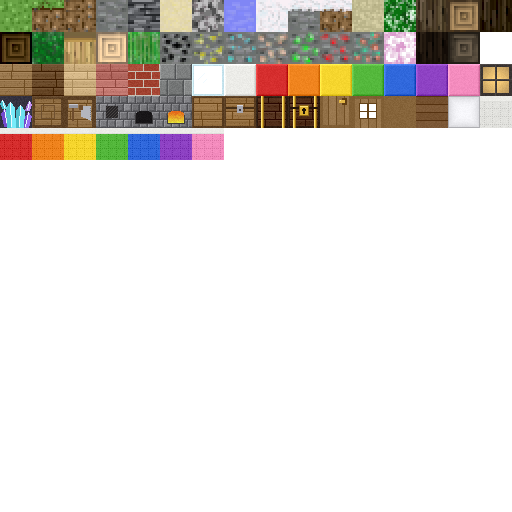
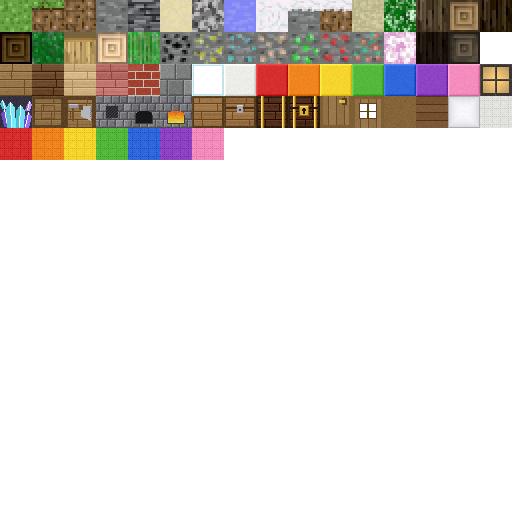
feat(beds): draw a bed as a low frame with a blanket and a pillow

Changed region(s): [[0.0, 0.25, 0.4375, 0.2812]]

diff --git a/src/chunk/chunk_mesh.cpp b/src/chunk/chunk_mesh.cpp
@@ -298,15 +298,18 @@ void addQuad(MeshBuffers& buffers,
   }
 }
 
-// A door: its panel, a thin box inside the cell, all six faces, lit by the
-// cell itself (light gets into a door's cell) and without AO. Corners go in
-// the order addQuad uses for each face, so the winding matches.
-void addDoor(MeshBuffers &buffers, int x, int y, int z, BlockType type,
-             int16_t chunkWorldX, int16_t chunkWorldZ, uint8_t skyLight, uint8_t blockLight) {
-  const DoorBox box = doorPanel(type);
-  const glm::vec3 lo = glm::vec3(x, y, z) + box.lo, hi = glm::vec3(x, y, z) + box.hi;
-  const BlockTexture &tex = block_data.at(type);
-  const uint8_t cutoutBits = static_cast<uint8_t>((cutoutClass(type) & 0x3) << 6);
+// The tiles a box wears on each face.
+struct BoxTiles {
+  glm::ivec2 top, bottom, front, back, right, left;
+};
+
+// A box inside a cell (doors, beds): all six faces, lit by the cell itself
+// (light gets into the cell, since these don't fill it) and without AO.
+// Corners go in the order addQuad uses for each face, so the winding matches.
+void addBox(MeshBuffers &buffers, glm::vec3 lo, glm::vec3 hi, const BoxTiles &tiles,
+            uint8_t cutout, int16_t chunkWorldX, int16_t chunkWorldZ, uint8_t skyLight,
+            uint8_t blockLight) {
+  const uint8_t cutoutBits = static_cast<uint8_t>((cutout & 0x3) << 6);
   const uint8_t light = static_cast<uint8_t>(cutoutBits | ((skyLight & 0xF) << 2) | 3);
 
   auto face = [&](Face f, glm::ivec2 tile, const std::array<glm::vec3, 4> &corners) {
@@ -324,21 +327,73 @@ void addDoor(MeshBuffers &buffers, int x, int y, int z, BlockType type,
     for (unsigned int k : order[sideways]) buffers.indices.push_back(start + k);
   };
 
-  // The two big faces wear the half's tile; the thin edges, the edge tile.
+  face(Face::Top, tiles.top,
+       {{{lo.x, hi.y, lo.z}, {hi.x, hi.y, lo.z}, {hi.x, hi.y, hi.z}, {lo.x, hi.y, hi.z}}});
+  face(Face::Bottom, tiles.bottom,
+       {{{lo.x, lo.y, hi.z}, {hi.x, lo.y, hi.z}, {hi.x, lo.y, lo.z}, {lo.x, lo.y, lo.z}}});
+  face(Face::Front, tiles.front,
+       {{{lo.x, hi.y, hi.z}, {hi.x, hi.y, hi.z}, {hi.x, lo.y, hi.z}, {lo.x, lo.y, hi.z}}});
+  face(Face::Back, tiles.back,
+       {{{hi.x, hi.y, lo.z}, {lo.x, hi.y, lo.z}, {lo.x, lo.y, lo.z}, {hi.x, lo.y, lo.z}}});
+  face(Face::Right, tiles.right,
+       {{{hi.x, hi.y, lo.z}, {hi.x, hi.y, hi.z}, {hi.x, lo.y, hi.z}, {hi.x, lo.y, lo.z}}});
+  face(Face::Left, tiles.left,
+       {{{lo.x, hi.y, hi.z}, {lo.x, hi.y, lo.z}, {lo.x, lo.y, lo.z}, {lo.x, lo.y, hi.z}}});
+}
+
+// A door: its panel, a thin box. The two big faces wear the half's tile; the
+// thin edges, the edge tile.
+void addDoor(MeshBuffers &buffers, int x, int y, int z, BlockType type,
+             int16_t chunkWorldX, int16_t chunkWorldZ, uint8_t skyLight, uint8_t blockLight) {
+  const DoorBox box = doorPanel(type);
+  const glm::vec3 lo = glm::vec3(x, y, z) + box.lo, hi = glm::vec3(x, y, z) + box.hi;
+  const BlockTexture &tex = block_data.at(type);
   const glm::vec3 size = hi - lo;
   auto tileFor = [&](float w) { return w > 0.5f ? tex.side : tex.top; };
-  face(Face::Top, tex.top,
-       {{{lo.x, hi.y, lo.z}, {hi.x, hi.y, lo.z}, {hi.x, hi.y, hi.z}, {lo.x, hi.y, hi.z}}});
-  face(Face::Bottom, tex.bottom,
-       {{{lo.x, lo.y, hi.z}, {hi.x, lo.y, hi.z}, {hi.x, lo.y, lo.z}, {lo.x, lo.y, lo.z}}});
-  face(Face::Front, tileFor(size.x),
-       {{{lo.x, hi.y, hi.z}, {hi.x, hi.y, hi.z}, {hi.x, lo.y, hi.z}, {lo.x, lo.y, hi.z}}});
-  face(Face::Back, tileFor(size.x),
-       {{{hi.x, hi.y, lo.z}, {lo.x, hi.y, lo.z}, {lo.x, lo.y, lo.z}, {hi.x, lo.y, lo.z}}});
-  face(Face::Right, tileFor(size.z),
-       {{{hi.x, hi.y, lo.z}, {hi.x, hi.y, hi.z}, {hi.x, lo.y, hi.z}, {hi.x, lo.y, lo.z}}});
-  face(Face::Left, tileFor(size.z),
-       {{{lo.x, hi.y, hi.z}, {lo.x, hi.y, lo.z}, {lo.x, lo.y, lo.z}, {lo.x, lo.y, hi.z}}});
+  const glm::ivec2 xs = tileFor(size.x), zs = tileFor(size.z);
+  addBox(buffers, lo, hi, {tex.top, tex.bottom, xs, xs, zs, zs}, cutoutClass(type),
+         chunkWorldX, chunkWorldZ, skyLight, blockLight);
+}
+
+// A bed half: a wooden frame with a blanket on it, and at the head a pillow
+// at the far end. The boxes are laid out for a bed facing north (head at
+// -Z) and turned to the bed's facing.
+void addBed(MeshBuffers &buffers, int x, int y, int z, BlockType type,
+            int16_t chunkWorldX, int16_t chunkWorldZ, uint8_t skyLight, uint8_t blockLight) {
+  constexpr float s = 1.0f / 16.0f;
+  constexpr float frame_top = 5 * s;
+  const glm::ivec2 frame = kBedFrameTile, pillow = kBedPillowTile;
+  const glm::ivec2 blanket = bedBlanketTile(bedColour(type));
+  const DoorFacing facing = bedFacing(type);
+
+  // (x, z) in a north-facing cell to the same point in this bed's cell.
+  auto turn = [&](float u, float v) -> glm::vec2 {
+    switch (facing) {
+      case DoorFacing::North: return {u, v};
+      case DoorFacing::South: return {1 - u, 1 - v};
+      case DoorFacing::East:  return {1 - v, u};
+      case DoorFacing::West:
+      default:                return {v, 1 - u};
+    }
+  };
+  auto box = [&](glm::vec3 lo, glm::vec3 hi, const BoxTiles &tiles) {
+    glm::vec2 a = turn(lo.x, lo.z), b = turn(hi.x, hi.z);
+    glm::vec3 cell(x, y, z);
+    addBox(buffers, cell + glm::vec3(std::min(a.x, b.x), lo.y, std::min(a.y, b.y)),
+           cell + glm::vec3(std::max(a.x, b.x), hi.y, std::max(a.y, b.y)), tiles, kCutoutNone,
+           chunkWorldX, chunkWorldZ, skyLight, blockLight);
+  };
+  const BoxTiles wood{frame, frame, frame, frame, frame, frame};
+  const BoxTiles cover{blanket, frame, blanket, blanket, blanket, blanket};
+  const BoxTiles plump{pillow, pillow, pillow, pillow, pillow, pillow};
+
+  box({0, 0, 0}, {1, frame_top, 1}, wood);
+  if (!bedHead(type)) {
+    box({0, frame_top, 0}, {1, kBedHeight, 1}, cover);
+  } else {
+    box({0, frame_top, 8 * s}, {1, kBedHeight, 1}, cover);
+    box({s, frame_top, s}, {1 - s, kBedHeight, 8 * s}, plump);
+  }
 }
 
 } // namespace
@@ -462,7 +517,7 @@ void ChunkMesh::generateCPU(World *world, const Chunk &chunk,
         if (mask[x][y]) continue;
 
         BlockType type = chunk.at(x, y, z);
-        if (type == BlockType::AIR || isDoor(type)) continue; // doors: addDoor
+        if (type == BlockType::AIR || isDoor(type) || isBed(type)) continue; // addDoor, addBed
 
         if (sideShows(type, x, y, z + 1)) {
           const auto &tex = block_data.at(type);
@@ -517,7 +572,7 @@ void ChunkMesh::generateCPU(World *world, const Chunk &chunk,
         if (mask[x][y]) continue;
 
         BlockType type = chunk.at(x, y, z);
-        if (type == BlockType::AIR || isDoor(type)) continue; // doors: addDoor
+        if (type == BlockType::AIR || isDoor(type) || isBed(type)) continue; // addDoor, addBed
 
         if (sideShows(type, x, y, z - 1)) {
           const auto &tex = block_data.at(type);
@@ -572,7 +627,7 @@ void ChunkMesh::generateCPU(World *world, const Chunk &chunk,
         if (mask[z][x]) continue;
 
         BlockType type = chunk.at(x, y, z);
-        if (type == BlockType::AIR || isDoor(type)) continue; // doors: addDoor
+        if (type == BlockType::AIR || isDoor(type) || isBed(type)) continue; // addDoor, addBed
 
         BlockType neighbor = getBlock(world, chunk, x, y + 1, z);
         if (shouldRenderFace(type, neighbor)) {
@@ -637,7 +692,7 @@ void ChunkMesh::generateCPU(World *world, const Chunk &chunk,
         if (mask[z][x]) continue;
 
         BlockType type = chunk.at(x, y, z);
-        if (type == BlockType::AIR || isDoor(type)) continue; // doors: addDoor
+        if (type == BlockType::AIR || isDoor(type) || isBed(type)) continue; // addDoor, addBed
         if (isLiquid(type)) continue;
 
         BlockType neighbor = getBlock(world, chunk, x, y - 1, z);
@@ -694,7 +749,7 @@ void ChunkMesh::generateCPU(World *world, const Chunk &chunk,
         if (mask[y][z]) continue;
 
         BlockType type = chunk.at(x, y, z);
-        if (type == BlockType::AIR || isDoor(type)) continue; // doors: addDoor
+        if (type == BlockType::AIR || isDoor(type) || isBed(type)) continue; // addDoor, addBed
 
         if (sideShows(type, x + 1, y, z)) {
           const auto &tex = block_data.at(type);
@@ -749,7 +804,7 @@ void ChunkMesh::generateCPU(World *world, const Chunk &chunk,
         if (mask[y][z]) continue;
 
         BlockType type = chunk.at(x, y, z);
-        if (type == BlockType::AIR || isDoor(type)) continue; // doors: addDoor
+        if (type == BlockType::AIR || isDoor(type) || isBed(type)) continue; // addDoor, addBed
 
         if (sideShows(type, x - 1, y, z)) {
           const auto &tex = block_data.at(type);
@@ -796,7 +851,7 @@ void ChunkMesh::generateCPU(World *world, const Chunk &chunk,
     }
   }
 
-  // Doors, which the passes above leave out.
+  // Doors and beds, which the passes above leave out.
   for (int y = 0; y < kChunkHeight; ++y)
     for (int z = 0; z < kChunkDepth; ++z)
       for (int x = 0; x < kChunkWidth; ++x) {
@@ -804,6 +859,9 @@ void ChunkMesh::generateCPU(World *world, const Chunk &chunk,
         if (isDoor(type))
           addDoor(buffers, x, y, z, type, chunkWorldX, chunkWorldZ,
                   getSkyLight(world, chunk, x, y, z), getBlockLight(world, chunk, x, y, z));
+        else if (isBed(type))
+          addBed(buffers, x, y, z, type, chunkWorldX, chunkWorldZ,
+                 getSkyLight(world, chunk, x, y, z), getBlockLight(world, chunk, x, y, z));
       }
 
   cpuReady = !vertices.empty() || !transparentVertices.empty();

diff --git a/tests/water_mesh_test.cpp b/tests/water_mesh_test.cpp
@@ -112,3 +112,46 @@ TEST_CASE("a door is drawn as its thin panel, and its neighbours keep their face
     CHECK(stone_face_toward_door);
   }
 }
+
+TEST_CASE("a bed is drawn low, with its pillow at the head end, and its neighbours keep their faces") {
+  World world;
+  world.loadChunkSync(0, 0);
+  fill(world, {0, kBase - 2, 0}, {15, kBase + 4, 15}, BlockType::AIR);
+  fill(world, {2, kBase - 1, 2}, {12, kBase - 1, 12}, BlockType::STONE);
+  const glm::ivec3 foot{5, kBase, 5}, head{6, kBase, 5}; // facing east
+  fill(world, foot, foot, bedBlock(BedColour::Green, false, DoorFacing::East));
+  fill(world, head, head, bedBlock(BedColour::Green, true, DoorFacing::East));
+  fill(world, head + glm::ivec3(1, 0, 0), head + glm::ivec3(1, 0, 0), BlockType::STONE);
+
+  auto chunk = world.getChunk(0, 0);
+  ChunkMesh mesh;
+  TextureManager unused;
+  mesh.generateCPU(&world, *chunk, unused);
+  const glm::ivec2 blanket = bedBlanketTile(BedColour::Green);
+  glm::vec3 lo(1e9f), hi(-1e9f), pillow_lo(1e9f), pillow_hi(-1e9f);
+  int blanket_corners = 0;
+  bool stone_face_toward_bed = false;
+  for (const BlockVertex &v : mesh.vertexData()) {
+    glm::vec3 p = glm::vec3(v.posX, v.posY, v.posZ) / kPosScale;
+    glm::ivec2 tile(v.tileX, v.tileY);
+    if ((v.faceId & 7) == Face::Left && p.x == head.x + 1 && p.y >= head.y &&
+        p.y <= head.y + 1 && p.z >= head.z && p.z <= head.z + 1)
+      stone_face_toward_bed = true;
+    if (tile != kBedFrameTile && tile != kBedPillowTile && tile != blanket) continue;
+    lo = glm::min(lo, p);
+    hi = glm::max(hi, p);
+    blanket_corners += tile == blanket;
+    if (tile == kBedPillowTile) {
+      pillow_lo = glm::min(pillow_lo, p);
+      pillow_hi = glm::max(pillow_hi, p);
+    }
+  }
+  CHECK(lo == glm::vec3(foot));
+  CHECK(hi == glm::vec3(foot) + glm::vec3(2.0f, kBedHeight, 1.0f));
+  CHECK(blanket_corners > 0);
+  // The pillow sits on the head's far half.
+  CHECK(pillow_lo.x >= head.x + 0.5f);
+  CHECK(pillow_hi.x < head.x + 1.0f);
+  CHECK(pillow_hi.y == doctest::Approx(head.y + kBedHeight));
+  CHECK(stone_face_toward_bed);
+}

diff --git a/tools/gen_building_tiles.py b/tools/gen_building_tiles.py
@@ -397,7 +397,10 @@ def bed_pillow(rng):
 
 
 def blanket(base, rng):
-    """A quilted blanket in one colour, with a pale folded-back band."""
+    """A quilted blanket in one colour.
+
+    Plain all over: the top face isn't turned with the bed, so a band at one
+    edge would sit on a different side for each facing."""
     img = new_tile()
     px = pixels(img)
     for y in range(TILE):
@@ -405,8 +408,6 @@ def blanket(base, rng):
             c = shade(base, rng.randint(-5, 5))
             if (x % 8 == 4 and y % 2 == 0) or (y % 8 == 4 and x % 2 == 0):
                 c = shade(base, -26)  # quilting stitches
-            if y < 6:
-                c = shade((236, 236, 232), rng.randint(-4, 4) - (12 if y == 5 else 0))
             px[x, y] = c + (255,)
     return img
 
